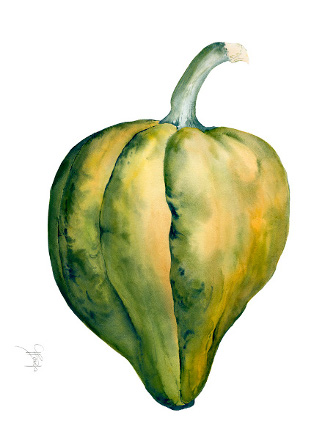
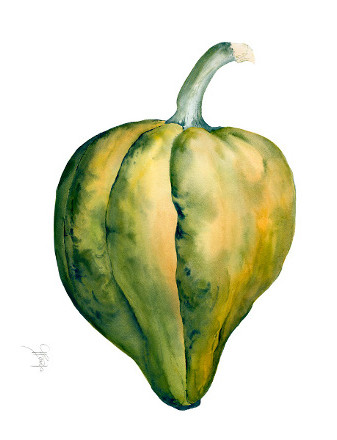
a different (and better?) way to have a centred image

diff --git a/css/default.css b/css/default.css
@@ -4,28 +4,38 @@ body {
 
 header {
     padding: 20px 0 5px;
-    margin-left: -30px;
+    margin-left: -40px;
+}
+
+#full-size {
+    width: 100%;
+    height: 101%;
+    background-image: url('../img/crossword.png');
+    background-position: center;
+    background-repeat: repeat-y;
+    position: fixed;
+    margin-top: -1%;
+    margin-bottom: -20px;
+    z-index: -1;
+    overflow-y: hidden;
 }
 
 #outer-panel {
-    background-image: url('../img/crossword.png');
-    position: fixed;
-    left: 50%;
-    margin: -20px 0 0 -240px;
+    margin: 0 auto;
     padding-top: 20px;
     width: 480px;
-    height: 100%;
 }
 
 #centre-panel {
     margin-left: auto;
     margin-right: auto;
-    width: 333px;
+    width: 349px;
 }
 
 .artwork {
     border: 0;
 }
+
 #contact{
     font-family: 'Cedarville Cursive', cursive;
     font-style: italic;
@@ -33,4 +43,9 @@ header {
     color: rgb(81, 81, 81);
     text-align: center;
     padding-top: 45px;
+}
+
+.slidesjs-container {
+    margin-left: 12px;
+    margin-right: -12px;
 }

diff --git a/index.html b/index.html
@@ -11,6 +11,7 @@
       <script src="js/slideshow.js" type="text/javascript"></script>
   </head>
   <body>
+    <div id="full-size"></div>
     <div id="outer-panel">
       <div id="centre-panel">
         <header><img src="img/trish-bourke-signature.png" alt="Signature of Trish Bourke, artist"/></header>

diff --git a/js/slideshow.js b/js/slideshow.js
@@ -1,7 +1,7 @@
 $(function(){
   $("#slides").slidesjs({
     height: 440,
-    width: 333,
+    width: 337,
     navigation: {
       active: true
     },
